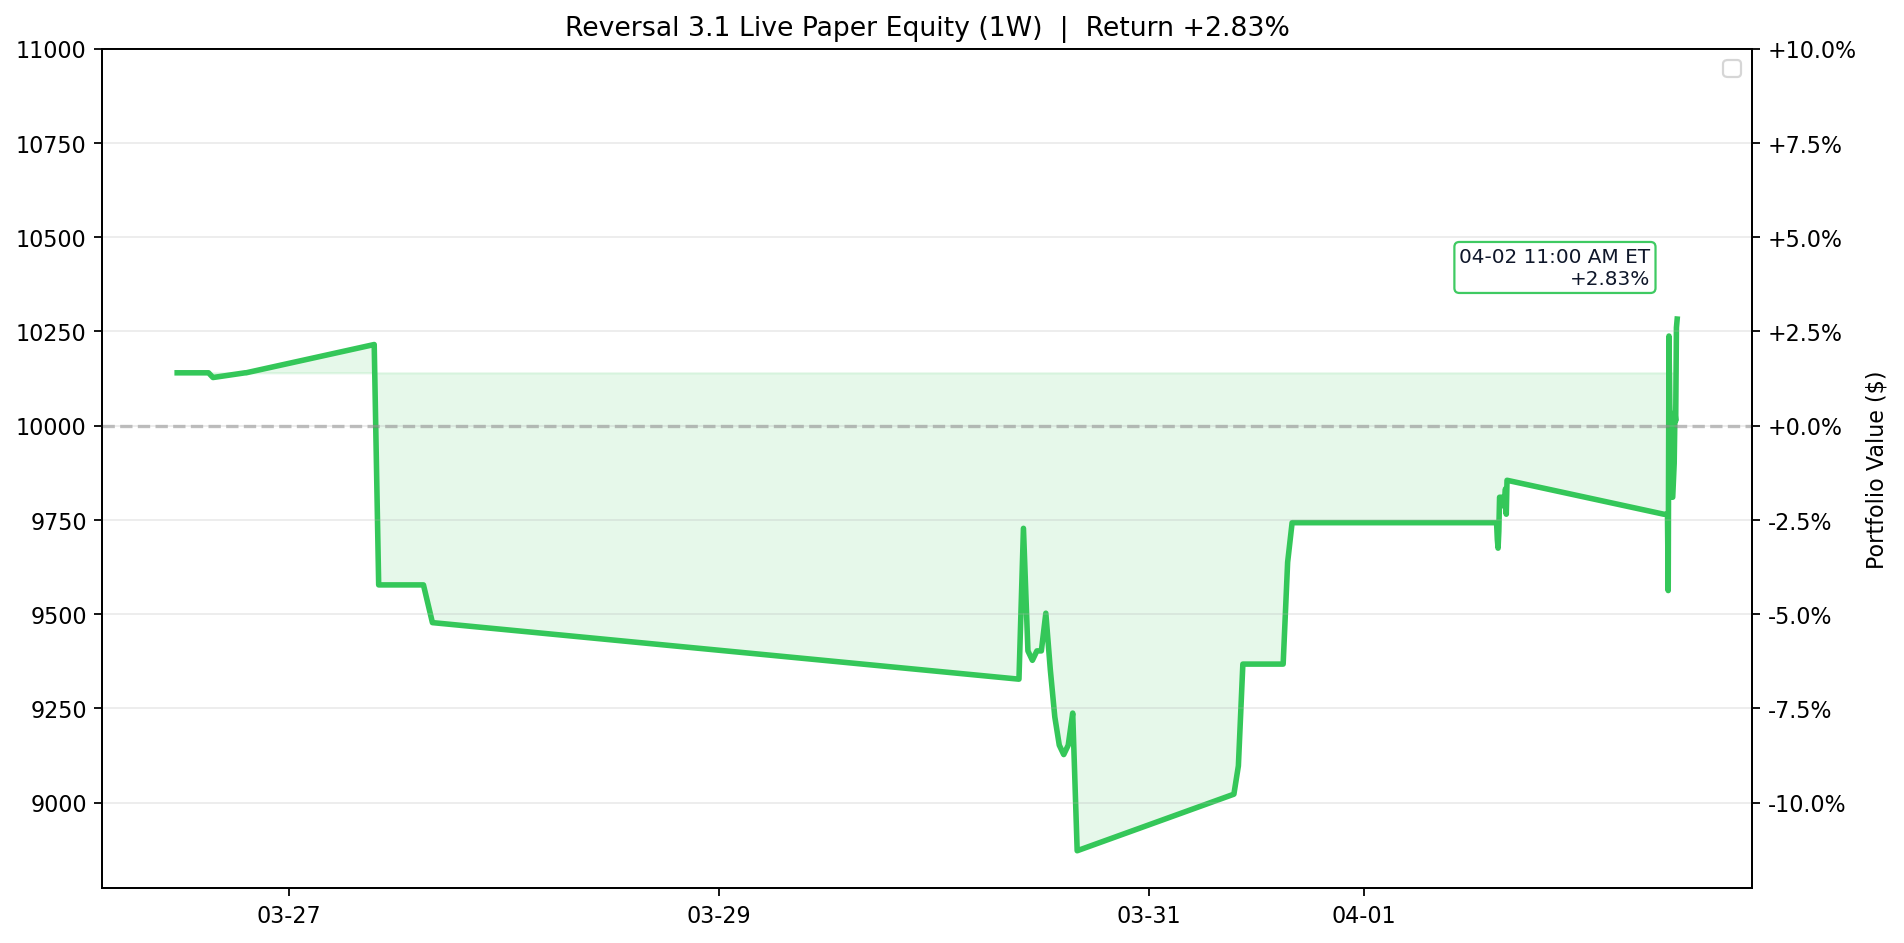
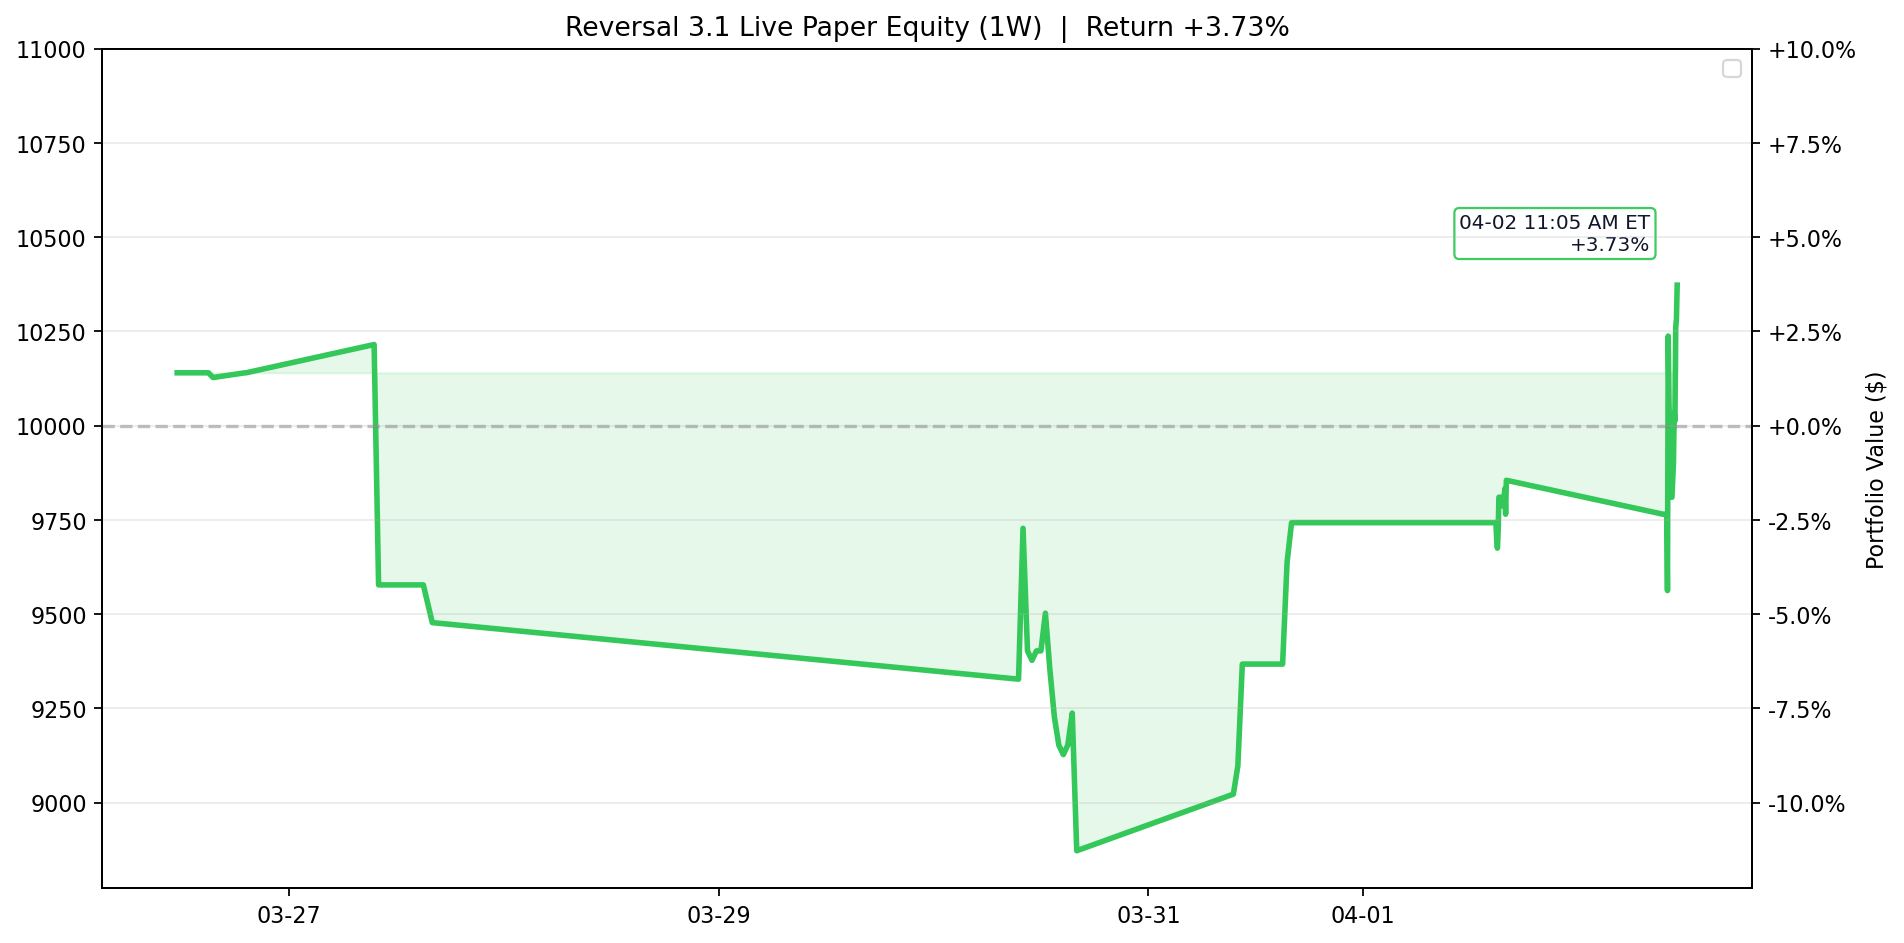
Update Reversal 3.1 live paper test 2026-04-02 11:05 ET

Changed region(s): [[0.7437, 0.2153, 0.8986, 0.3383], [0.6817, 0.9533, 0.7437, 0.9841], [0.5268, 0.6766, 0.5578, 0.7073]]

diff --git a/results/reversal_3_1_live/README.md b/results/reversal_3_1_live/README.md
@@ -1,6 +1,6 @@
 # Reversal 3.1 Live Paper Test
 
-Last updated (ET): `2026-04-02 11:00:05 EDT`
+Last updated (ET): `2026-04-02 11:05:05 EDT`
 Last processed slot: `manage_1100`
 
 ## Active Configuration
@@ -20,16 +20,16 @@ Last processed slot: `manage_1100`
 ## Portfolio Snapshot
 
 - Cash: `$5,355.00`
-- Equity: `$10,282.50`
+- Equity: `$10,372.50`
 - Realized PnL: `$-257.50`
-- Unrealized PnL: `$540.00`
+- Unrealized PnL: `$630.00`
 - Open positions: `1`
 
 ## Open Positions
 
 ```text
 ticker     contract_symbol entry_trade_date  business_days_held  entry_option_price  current_option_price  entry_spot  current_spot  unrealized_pnl  unrealized_return_pct  success_rate  matched_signals  current_drop_pct  entry_iv_pct  current_iv_pct  rolling_sigma_20d_pct
-  NFLX NFLX260508C00096000       2026-04-01                   1                4.88                  5.48       95.56         97.33           540.0                  12.31         94.87               39              0.58         41.74           39.58                  24.42
+  NFLX NFLX260508C00096000       2026-04-01                   1                4.88                  5.58       95.56         97.43           630.0                  14.36         94.87               39              0.58         41.74           40.31                  24.42
 ```
 
 ## Today's Closed Trades (2026-04-02)
@@ -40,24 +40,25 @@ _None_
 
 ```text
 ticker  success_rate_%  matched_signals  current_drop_%  target_rebound_$  target_price  rolling_sigma_20d_%  call_candidate
-   WDC           96.88               32            2.36              4.92        295.62                91.06            True
-  MRVL           95.35               43            0.56              0.42        106.53                92.70            True
-  MPWR           91.89               37            0.62              4.84       1117.43                56.57            True
-  CDNS           90.48               42            0.91              1.79        279.42                26.25            True
-  PCAR           90.24               41            0.55              0.45        117.46                23.75            True
-   MAR           88.89               36            0.65              1.53        332.81                28.45            True
-  KLAC           86.84               38            0.63              6.72       1516.96                56.48            True
-  MCHP           86.49               37            0.70              0.32         65.24                45.66            True
-  AMAT           86.11               36            0.91              2.25        352.83                59.65            True
-  SOXL           85.29               34            1.59              0.58         52.01               138.72            True
-  ASML           85.19               27            1.49             14.14       1353.70                52.01            True
-  VRTX           85.00               40            0.62              1.95        446.42                39.75            True
+  TSLA          100.00               10            3.68              9.83        377.05                40.57            True
+   WDC           97.06               34            1.97              4.11        295.97                91.06            True
+  MRVL           95.35               43            0.52              0.38        106.55                92.70            True
+  MPWR           91.67               36            0.74              5.82       1117.01                56.57            True
+  CDNS           90.48               42            0.95              1.86        279.39                26.25            True
+   MAR           89.47               38            0.60              1.40        332.86                28.45            True
+  MCHP           87.18               39            0.60              0.27         65.26                45.66            True
+  KLAC           86.84               38            0.53              5.64       1517.42                56.48            True
+  SOXL           85.29               34            1.37              0.50         52.04               138.72            True
+  AMAT           84.38               32            1.11              2.76        352.62                59.65            True
+  TMUS           84.00               25            0.81              1.15        203.76                22.53            True
+   TXN           83.87               31            0.80              1.10        195.83                33.08            True
 ```
 
 ## Recent Events
 
 ```text
                     timestamp_et        slot   event_type                          detail
+2026-04-02T11:05:05.887015-04:00 manage_1100 slot_skipped {"reason": "already_processed"}
 2026-04-02T11:00:05.878856-04:00 manage_1100 slot_skipped {"reason": "already_processed"}
 2026-04-02T10:55:05.929146-04:00 manage_1100 slot_skipped {"reason": "already_processed"}
 2026-04-02T10:40:05.872686-04:00 manage_1030 slot_skipped {"reason": "already_processed"}
@@ -67,7 +68,6 @@ ticker  success_rate_%  matched_signals  current_drop_%  target_rebound_$  targe
 2026-04-02T10:10:05.923370-04:00 manage_1000 slot_skipped {"reason": "already_processed"}
 2026-04-02T10:05:05.400756-04:00 manage_1000 slot_skipped {"reason": "already_processed"}
 2026-04-02T10:00:03.566981-04:00 manage_1000 slot_skipped {"reason": "already_processed"}
-2026-04-02T09:55:03.086371-04:00 manage_1000 slot_skipped {"reason": "already_processed"}
 ```
 
 ## Equity Curve (1W)

diff --git a/README.md b/README.md
@@ -3,8 +3,8 @@
 <!-- reversal-3.1-live:start -->
 ## Reversal 3.1 Live Paper Test
 
-- Last updated (ET): `2026-04-02 11:00:05 EDT`
-- Equity: `$10,282.50` | Realized: `$-257.50` | Unrealized: `$540.00` | Open positions: `1`
+- Last updated (ET): `2026-04-02 11:05:05 EDT`
+- Equity: `$10,372.50` | Realized: `$-257.50` | Unrealized: `$630.00` | Open positions: `1`
 - Today closed trades: `0`
 - Current slot: `manage_1100`
 - Universe: `qqq_plus_leverage_etfs`
@@ -12,7 +12,7 @@
 
 ```text
 ticker     contract_symbol  current_option_price  unrealized_pnl  unrealized_return_pct  business_days_held
-  NFLX NFLX260508C00096000                  5.48           540.0                  12.31                   1
+  NFLX NFLX260508C00096000                  5.58           630.0                  14.36                   1
 ```
 
 ![Reversal 3.1 Live Equity 1W](assets/reversal_3_1_live_equity.png)
